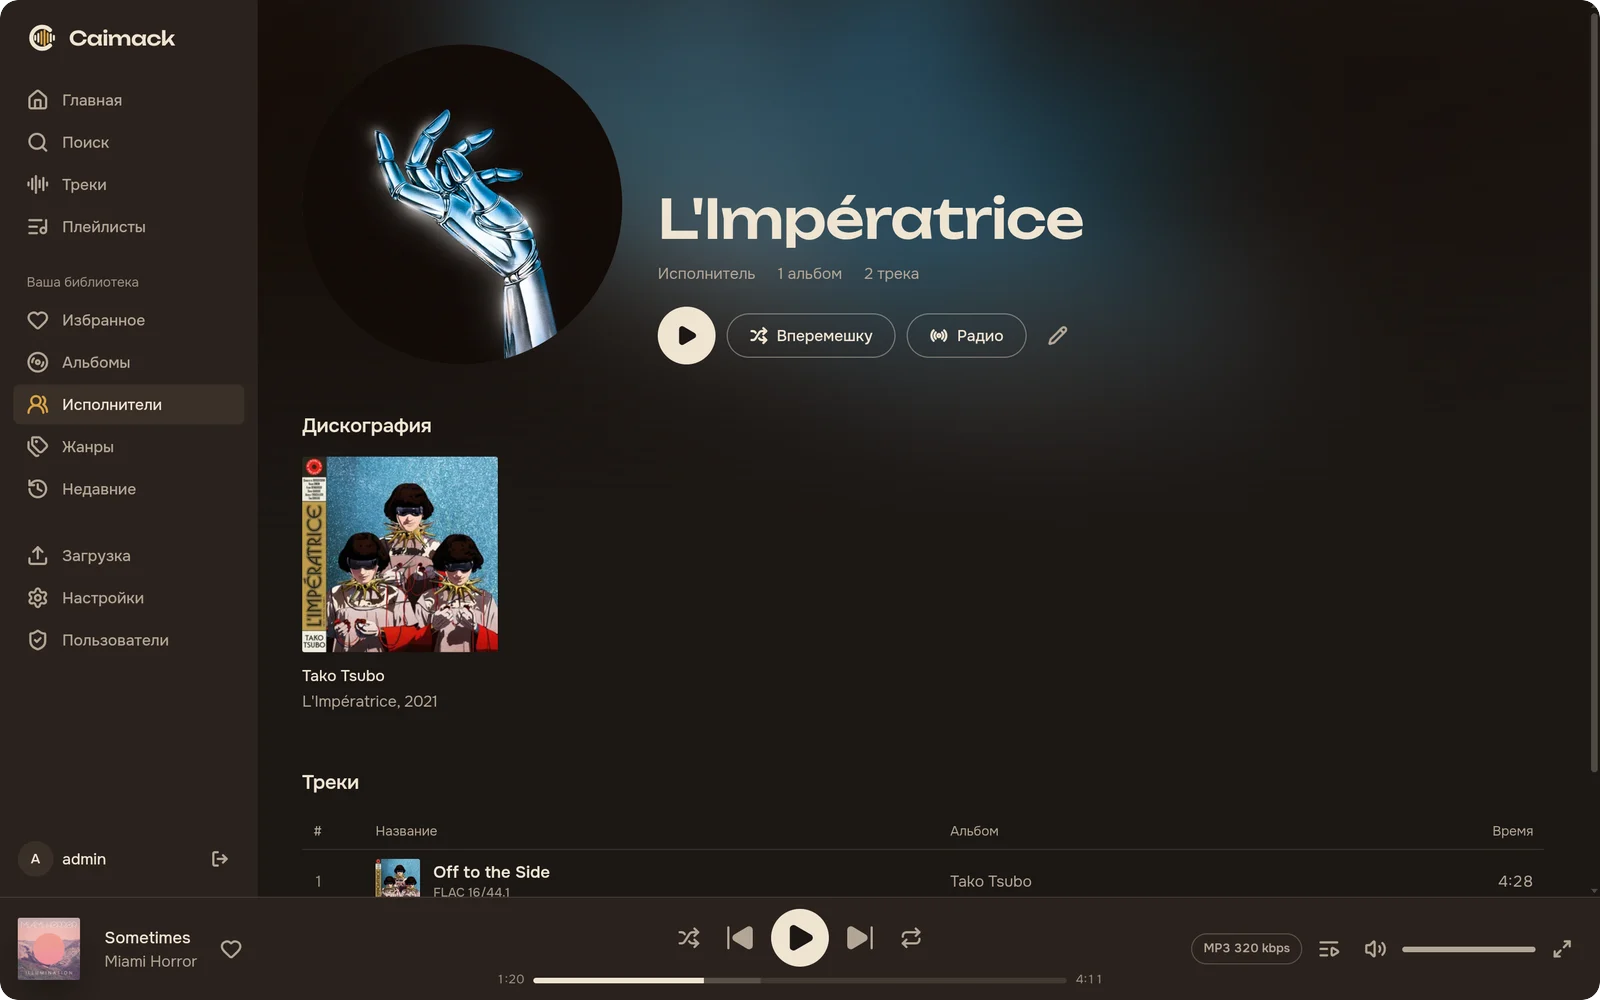
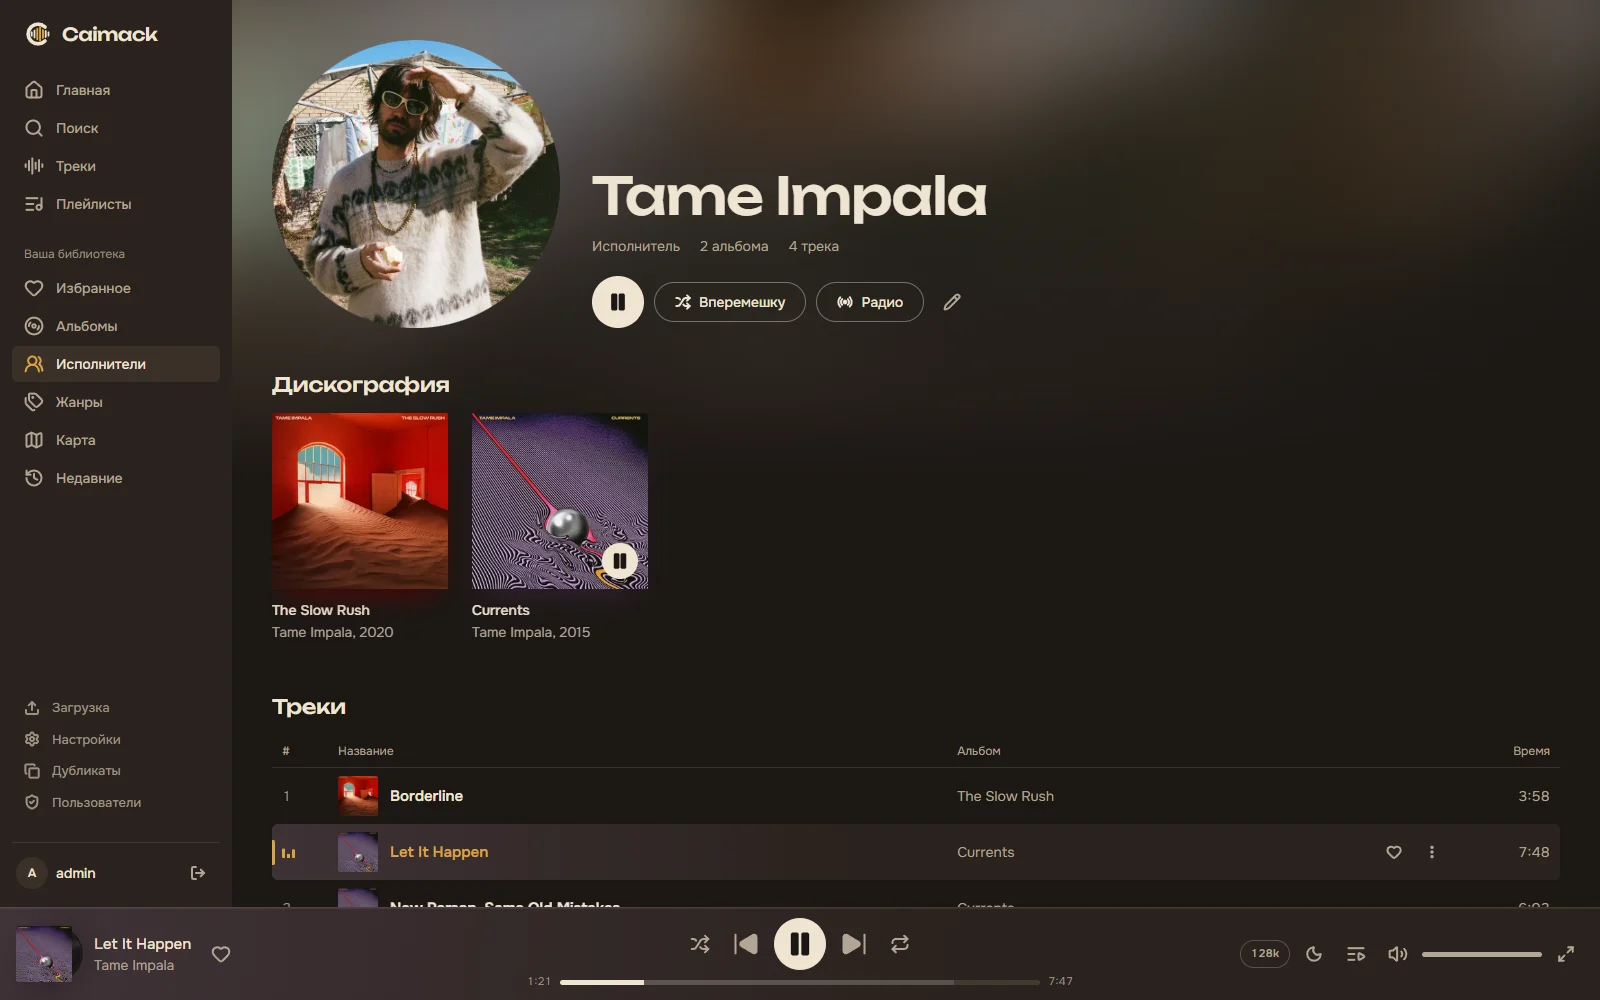
chore: release 2.0.0 — new README screenshots
Version 2.0.0 for the web, the backend and Android (versionName/versionCode follow
frontend/package.json). Screenshots retaken on web and Android with the cover-tone redesign,
composed over the blurred cover of the playing track; README highlights the cover colour.

diff --git a/README.md b/README.md
@@ -41,6 +41,9 @@ server learns what you like from what you actually play, and that data stays on 
 - **A record that hears the music.** In the full-screen player a ring of spectrum bars plays
   around the spinning vinyl and the backdrop breathes with the bass; the seek bar is the track's
   own waveform, marked where the next track will come in.
+- **Coloured by what's playing.** The player and the page around it take on the colour of the
+  cover that's playing, and cards, tiles and moods carry the tones of their own covers. Five
+  palettes, each in dark and light; the cover colour can be switched off.
 - **Lean back.** Leave the app alone while music plays and it turns into a screensaver: a big
   spinning record, the clock and the current lyric line, drifting slowly so nothing burns in.
 - **Synced lyrics.** Lyrics follow the song line by line in the full-screen player; they're
